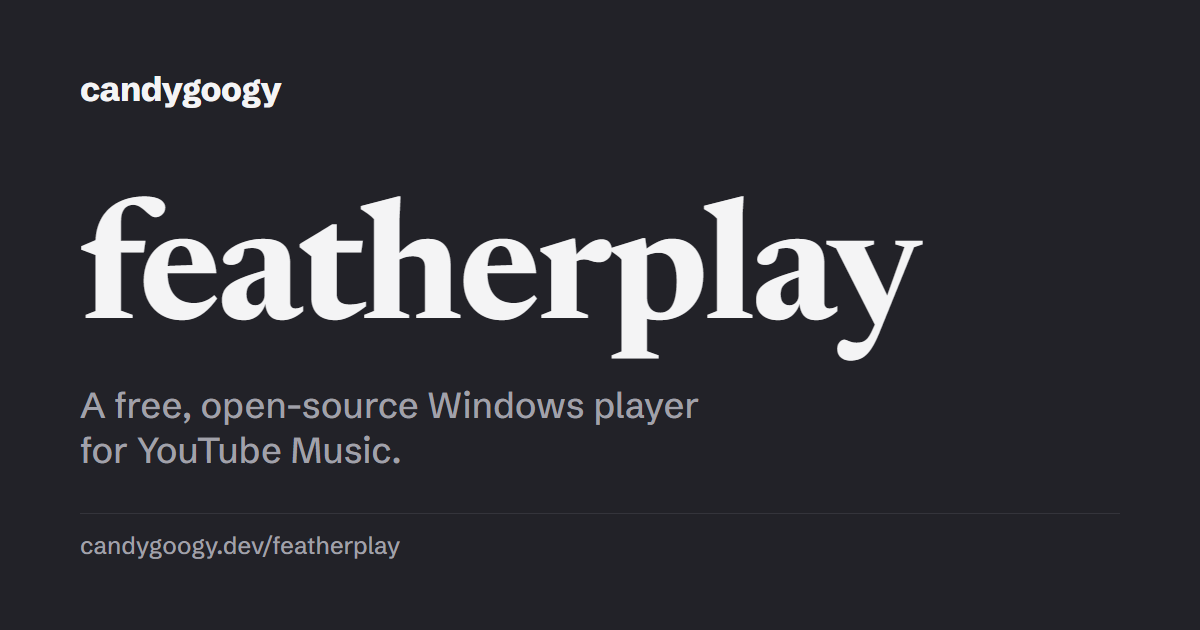
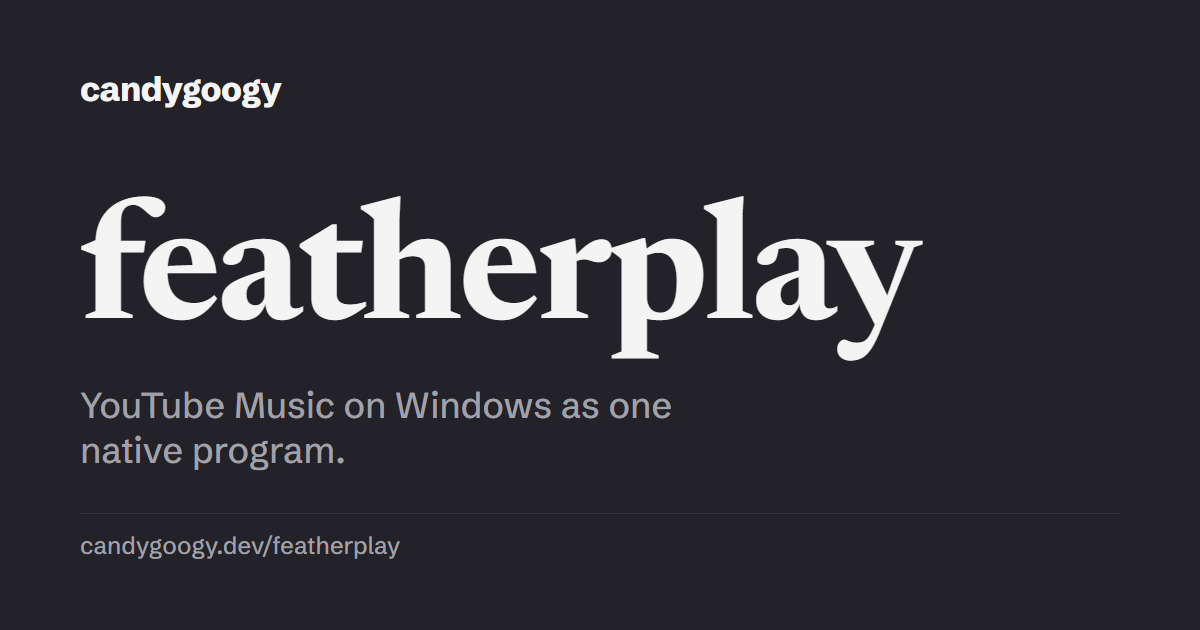
Products: summaries lead with what each does; cards regenerated
All four opened "A free, open-source ...", which read as a template side
by side. Each now opens with a short line of what it is (the social
card's line and alt text) and says free and open source further on.
The four product cards are re-rendered with scripts/og.mjs.

Changed region(s): [[0.0617, 0.6032, 0.5858, 0.6635], [0.0617, 0.6937, 0.3392, 0.754]]

diff --git a/src/content/projects/fettle.md b/src/content/projects/fettle.md
@@ -2,7 +2,7 @@
 name: Fettle
 blurb: Windows check-up, printed as a readable receipt
 featured: true
-summary: "A free, open-source check-up for Windows PCs. It reads what Windows already knows and prints it as a receipt: a plain-words verdict on every line, the next steps at the top, and the numbers underneath for anyone who wants them."
+summary: "A check-up for Windows PCs, printed as a receipt. It reads what Windows already knows and gives a plain-words verdict on every line, the next steps at the top, and the numbers underneath for anyone who wants them. It’s free and open source."
 kind: product
 status: live
 date: 2026-10-10

diff --git a/src/content/projects/idiff.md b/src/content/projects/idiff.md
@@ -2,7 +2,7 @@
 name: Install diff
 blurb: What an installer did to your PC, in plain words
 featured: true
-summary: "A free, open-source command-line tool for Windows. It tells you, in plain words, what an app’s installer did to your PC and what it left behind after you uninstalled it. It only reads."
+summary: "An installer report for Windows, from the command line. It tells you, in plain words, what an app’s installer did to your PC and what it left behind after you uninstalled it. It only reads, and it’s free and open source."
 kind: product
 status: live
 date: 2026-10-15

diff --git a/src/content/projects/featherplay.md b/src/content/projects/featherplay.md
@@ -1,7 +1,7 @@
 ---
 name: featherplay
 blurb: Native Windows player for YouTube Music, unofficial
-summary: "A free, open-source Windows player for YouTube Music. It plays your library, playlists and radio in one native program, with no browser behind the window and no video."
+summary: "YouTube Music on Windows as one native program. It plays your library, playlists and radio with no browser behind the window and no video, and it’s free and open source."
 featured: true
 kind: product
 status: live

diff --git a/src/content/projects/tellall.md b/src/content/projects/tellall.md
@@ -1,7 +1,7 @@
 ---
 name: tellall
 blurb: What an image or a text gives away, and a clean copy
-summary: "A free, open-source privacy check for images and copied text. It tells you in plain sentences what they give away and makes a clean copy, on your device."
+summary: "A privacy check for images and copied text. It tells you in plain sentences what they give away and makes a clean copy, on your device. Free and open source."
 featured: true
 kind: product
 status: live
